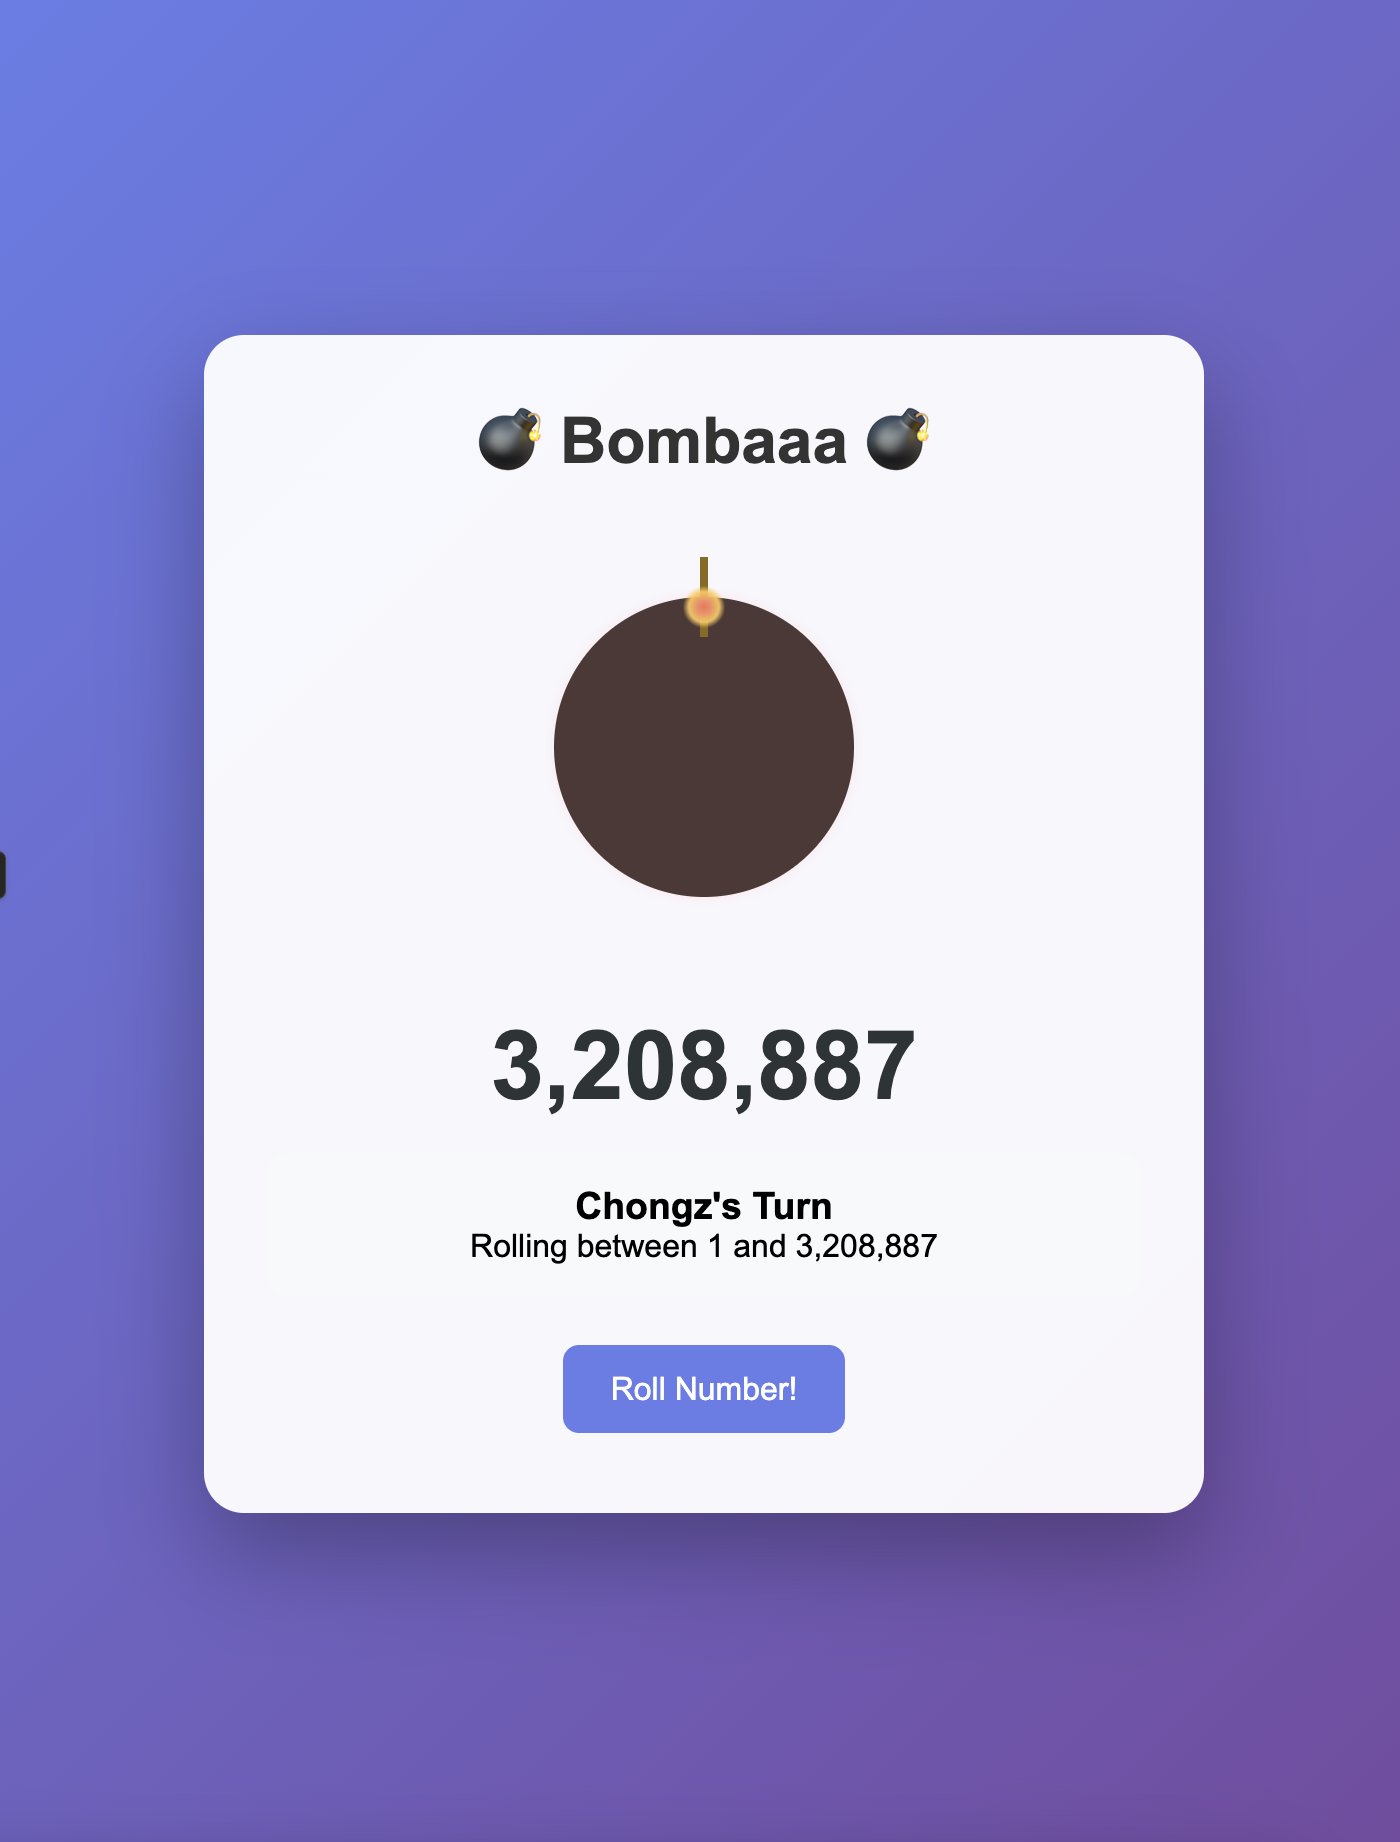
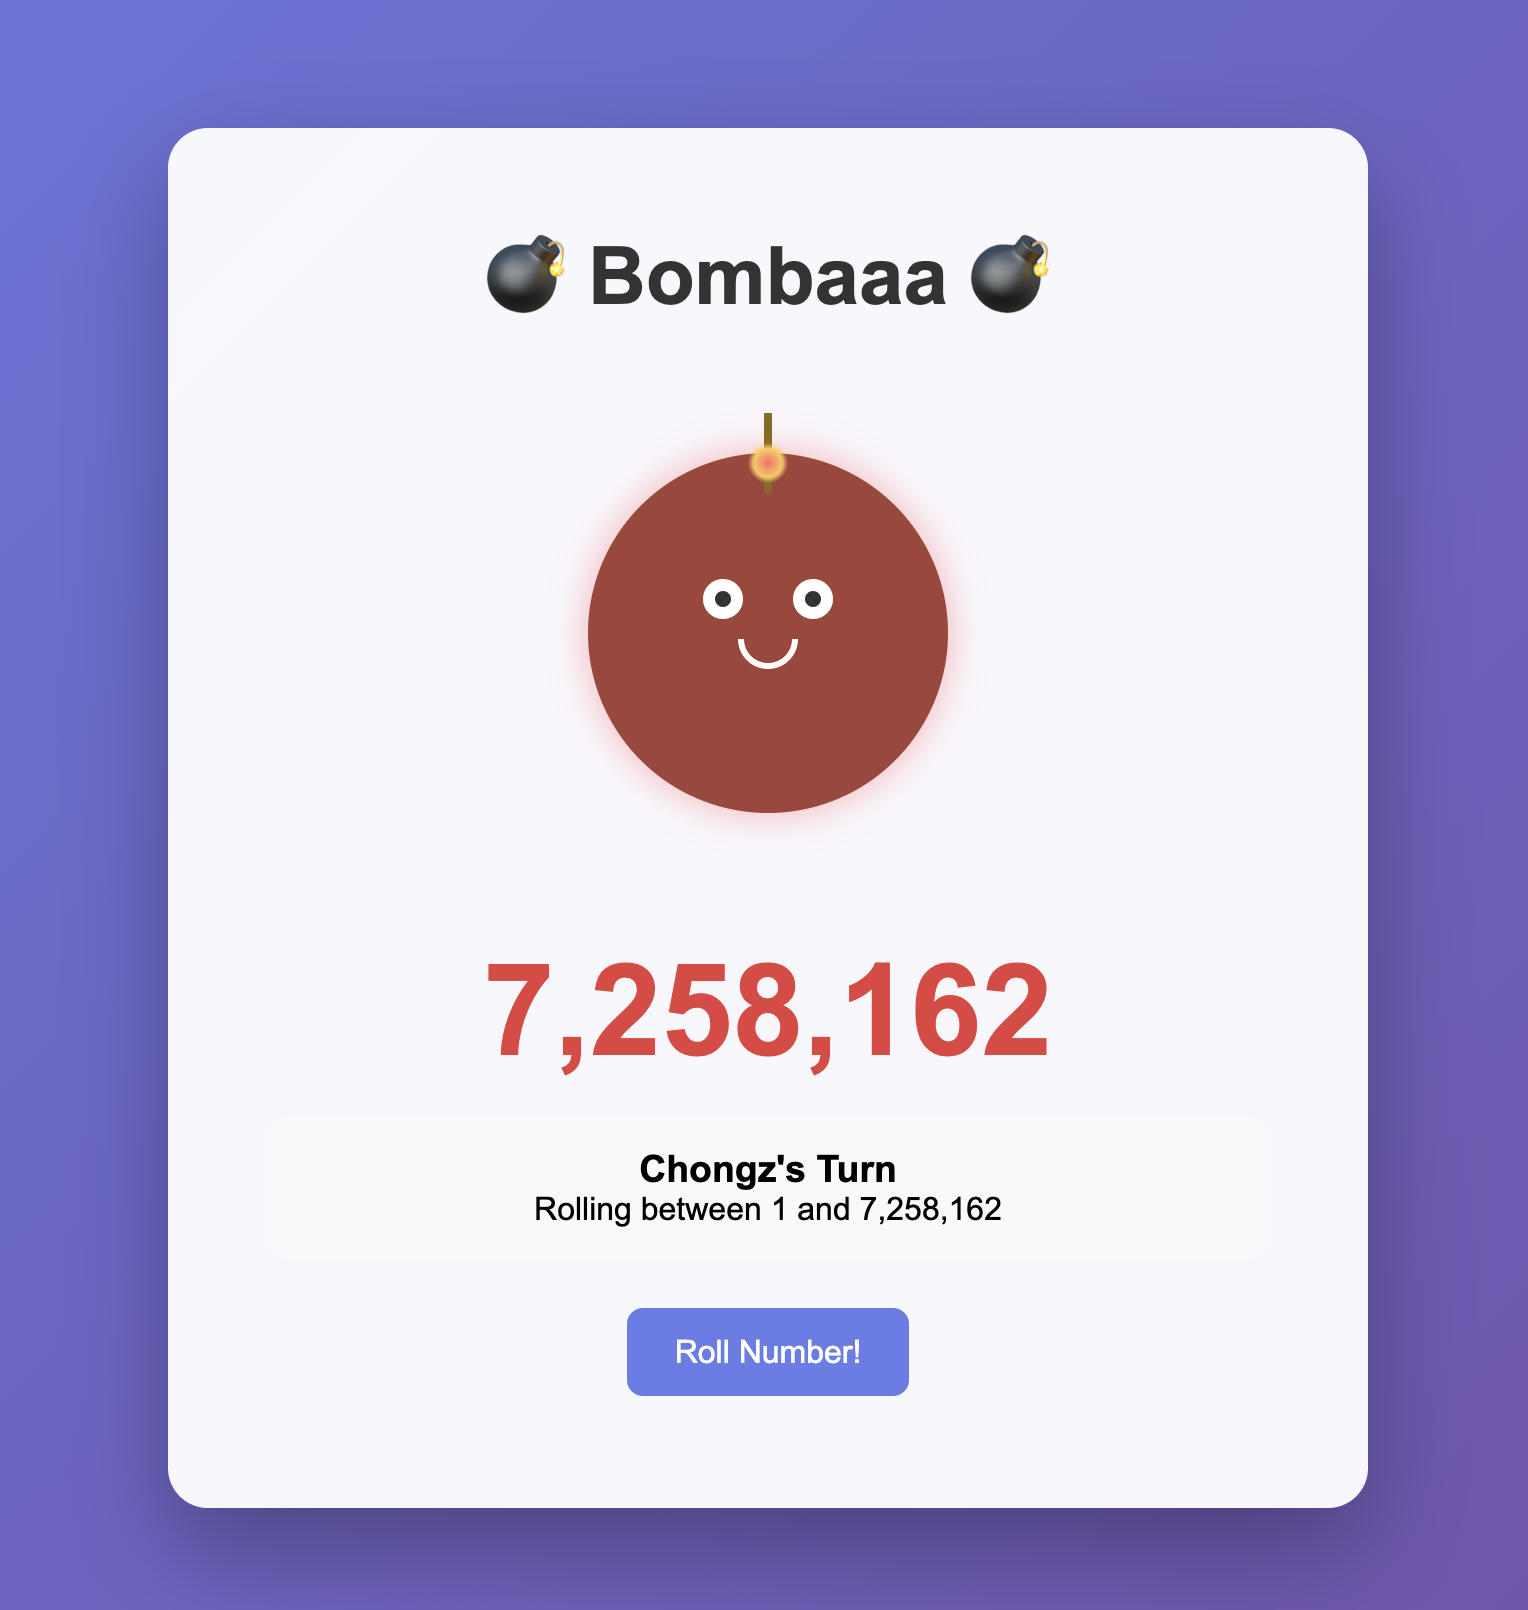
Polished, added face to the bomb, improved animation, button more responsive

diff --git a/styles/main.css b/styles/main.css
@@ -97,10 +97,54 @@ button {
 button:hover {
     transform: translateY(-2px);
     box-shadow: 0 5px 15px rgba(102, 126, 234, 0.4);
+    background: #5a6fd8;
 }
 
 button:active {
-    transform: translateY(0);
+    transform: translateY(0) scale(0.95);
+    background: #4c5ed1;
+    box-shadow: 0 2px 8px rgba(102, 126, 234, 0.6);
+    transition: all 0.1s ease;
+}
+
+#roll-button {
+    font-weight: bold;
+    font-size: 1.1rem;
+    padding: 1rem 2rem;
+    background: linear-gradient(135deg, #667eea 0%, #764ba2 100%);
+    border-radius: 12px;
+    position: relative;
+    overflow: hidden;
+}
+
+#roll-button:hover {
+    background: linear-gradient(135deg, #5a6fd8 0%, #6a4190 100%);
+    transform: translateY(-3px);
+    box-shadow: 0 8px 20px rgba(102, 126, 234, 0.5);
+}
+
+#roll-button:active {
+    transform: translateY(1px) scale(0.96);
+    background: linear-gradient(135deg, #4c5ed1 0%, #5d3a7e 100%);
+    box-shadow: 0 3px 10px rgba(102, 126, 234, 0.7);
+}
+
+#roll-button::before {
+    content: '';
+    position: absolute;
+    top: 50%;
+    left: 50%;
+    width: 0;
+    height: 0;
+    background: rgba(255, 255, 255, 0.3);
+    border-radius: 50%;
+    transform: translate(-50%, -50%);
+    transition: width 0.6s, height 0.6s;
+}
+
+#roll-button:active::before {
+    width: 300px;
+    height: 300px;
 }
 
 .quick-start {
@@ -194,16 +238,137 @@ button:active {
 
 .game-over {
     display: none;
-    margin-top: 2rem;
+    margin: 2rem 0;
+    height: 200px;
+    justify-content: center;
+    align-items: center;
     position: relative;
     z-index: 20;
 }
 
 .game-over.active {
+    display: flex;
+}
+
+.game-over-text {
+    display: none;
+    margin-top: 2rem;
+    position: relative;
+    z-index: 20;
+}
+
+.game-over-text.active {
     display: block;
 }
 
-.game-over h2 {
+.game-over-text h2 {
     color: #e53e3e;
     margin-bottom: 1rem;
+}
+
+.skull {
+    font-size: 150px;
+    line-height: 1;
+    margin: 0;
+    display: block;
+}
+
+/* Bomb face styling */
+.bomb-face {
+    position: absolute;
+    top: 50%;
+    left: 50%;
+    transform: translate(-50%, -50%);
+    width: 100%;
+    height: 100%;
+}
+
+.bomb-eyes {
+    position: absolute;
+    top: 35%;
+    left: 50%;
+    transform: translateX(-50%);
+    display: flex;
+    gap: 25px;
+}
+
+.eye {
+    width: 20px;
+    height: 20px;
+    background: white;
+    border-radius: 50%;
+    position: relative;
+    display: flex;
+    align-items: center;
+    justify-content: center;
+}
+
+.pupil {
+    width: 8px;
+    height: 8px;
+    background: #333;
+    border-radius: 50%;
+}
+
+/* Mouth expressions */
+.mouth {
+    position: absolute;
+    bottom: 40%;
+    left: 50%;
+    transform: translateX(-50%);
+    width: 30px;
+    height: 15px;
+    border: 3px solid white;
+    border-radius: 0 0 30px 30px;
+    border-top: none;
+    transition: all 0.3s ease;
+}
+
+.mouth.smile {
+    border-color: white;
+    transform: translateX(-50%) rotate(0deg);
+}
+
+.mouth.neutral {
+    border-radius: 0;
+    height: 3px;
+    border-top: 3px solid white;
+    border-bottom: none;
+    border-left: none;
+    border-right: none;
+}
+
+.mouth.worried {
+    border-radius: 30px 30px 0 0;
+    border-bottom: none;
+    border-top: 3px solid white;
+    transform: translateX(-50%) rotate(0deg);
+}
+
+.mouth.terrified {
+    width: 20px;
+    height: 20px;
+    border-radius: 50%;
+    border: 3px solid white;
+    background: #333;
+}
+
+/* Sweat drop */
+.sweat {
+    position: absolute;
+    top: 25%;
+    right: 20%;
+    width: 8px;
+    height: 12px;
+    background: #87ceeb;
+    border-radius: 50% 50% 50% 0;
+    transform: rotate(-45deg);
+    opacity: 0;
+    transition: opacity 0.3s ease;
+}
+
+/* Show sweat when worried or terrified */
+.bomb:has(.mouth.worried) .sweat,
+.bomb:has(.mouth.terrified) .sweat {
+    opacity: 1;
 }

diff --git a/js/ui.js b/js/ui.js
@@ -15,6 +15,7 @@ const UI = {
             currentPlayer: document.getElementById('current-player'),
             rollButton: document.getElementById('roll-button'),
             gameOver: document.getElementById('game-over'),
+            gameOverText: document.getElementById('game-over-text'),
             loserText: document.getElementById('loser-text'),
             bomb: document.getElementById('bomb'),
             bombMouth: document.getElementById('bomb-mouth'),
@@ -151,9 +152,15 @@ const UI = {
         this.elements.rollButton.style.display = 'none';
         this.elements.playerInfo.style.display = 'none';
         
+        // Wait for explosion animation to complete before hiding bomb container
         setTimeout(() => {
+            const bombContainer = document.querySelector('.bomb-container');
+            bombContainer.style.display = 'none';
+            
+            // Show game over elements immediately after hiding bomb container
             this.elements.gameOver.classList.add('active');
-        }, 500);
+            this.elements.gameOverText.classList.add('active');
+        }, 1000);
     },
 
     // Reset UI to initial state
@@ -164,11 +171,16 @@ const UI = {
         // Show setup screen
         this.showSetupScreen();
         this.elements.gameOver.classList.remove('active');
+        this.elements.gameOverText.classList.remove('active');
         
         // Show hidden elements
         this.elements.rollButton.style.display = '';
         this.elements.playerInfo.style.display = '';
         this.elements.bomb.style.display = '';
+        
+        // Show bomb container
+        const bombContainer = document.querySelector('.bomb-container');
+        bombContainer.style.display = '';
         
         // Remove explosion if it exists
         const explosion = document.querySelector('.explosion');

diff --git a/index.html b/index.html
@@ -28,7 +28,7 @@
             
             <div class="player-setup" style="margin-top: 2rem;">
                 <h3>Starting Number</h3>
-                <input type="number" id="starting-number" placeholder="Enter starting number (2-10,000,000)" min="2" max="10000000">
+                <input type="number" id="starting-number" placeholder="Enter starting number (minimum 2)" min="2">
                 <button class="quick-start" onclick="randomizeStartingNumber()">Randomize Starting Number</button>
             </div>
             
@@ -62,6 +62,10 @@
                 </div>
             </div>
             
+            <div class="game-over" id="game-over">
+                <div class="skull">💀</div>
+            </div>
+            
             <div class="current-number" id="current-number">1000</div>
             
             <div class="player-info" id="player-info">
@@ -71,8 +75,7 @@
             
             <button id="roll-button" onclick="rollNumber()">Roll Number!</button>
             
-            <div class="game-over" id="game-over">
-                <div class="skull">💀</div>
+            <div class="game-over-text" id="game-over-text">
                 <h2>💥 BOOM! 💥</h2>
                 <p id="loser-text">Player lost!</p>
                 <button onclick="resetGame()">Play Again</button>
